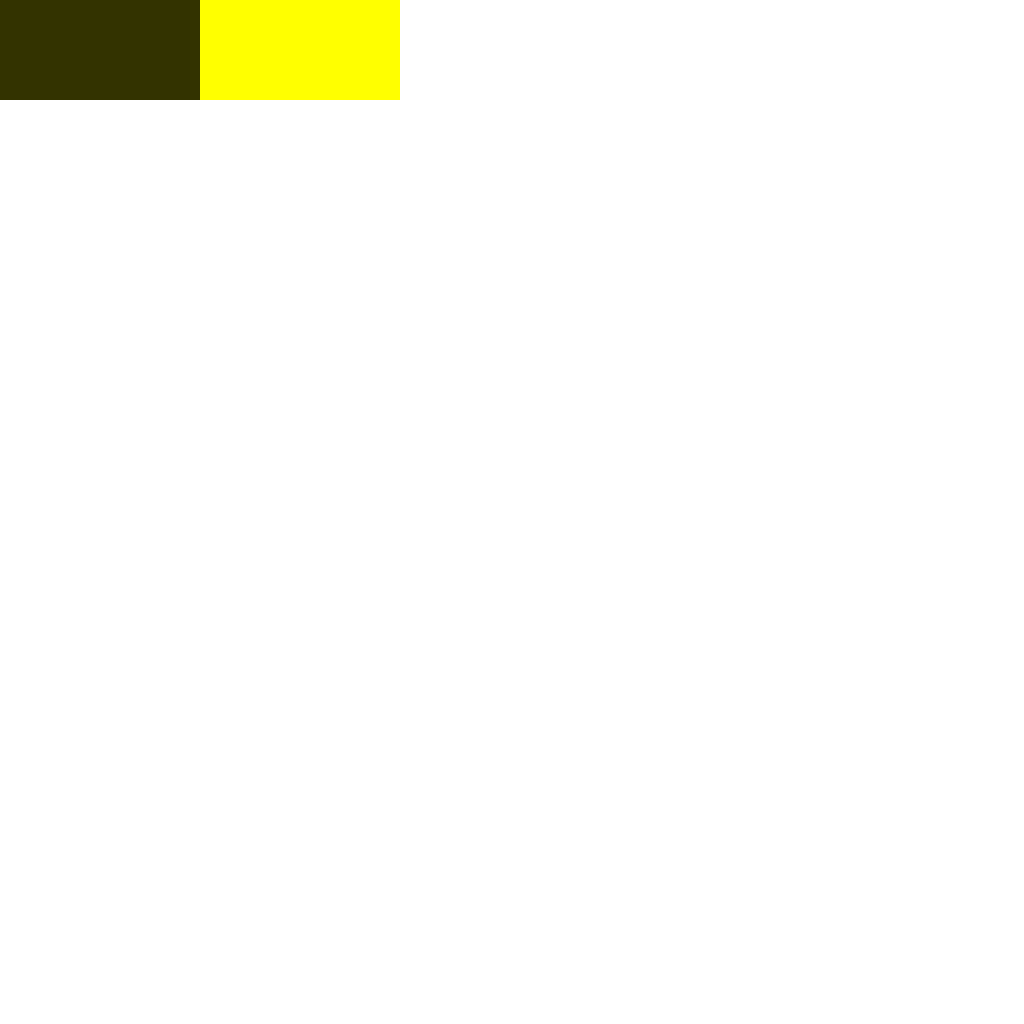
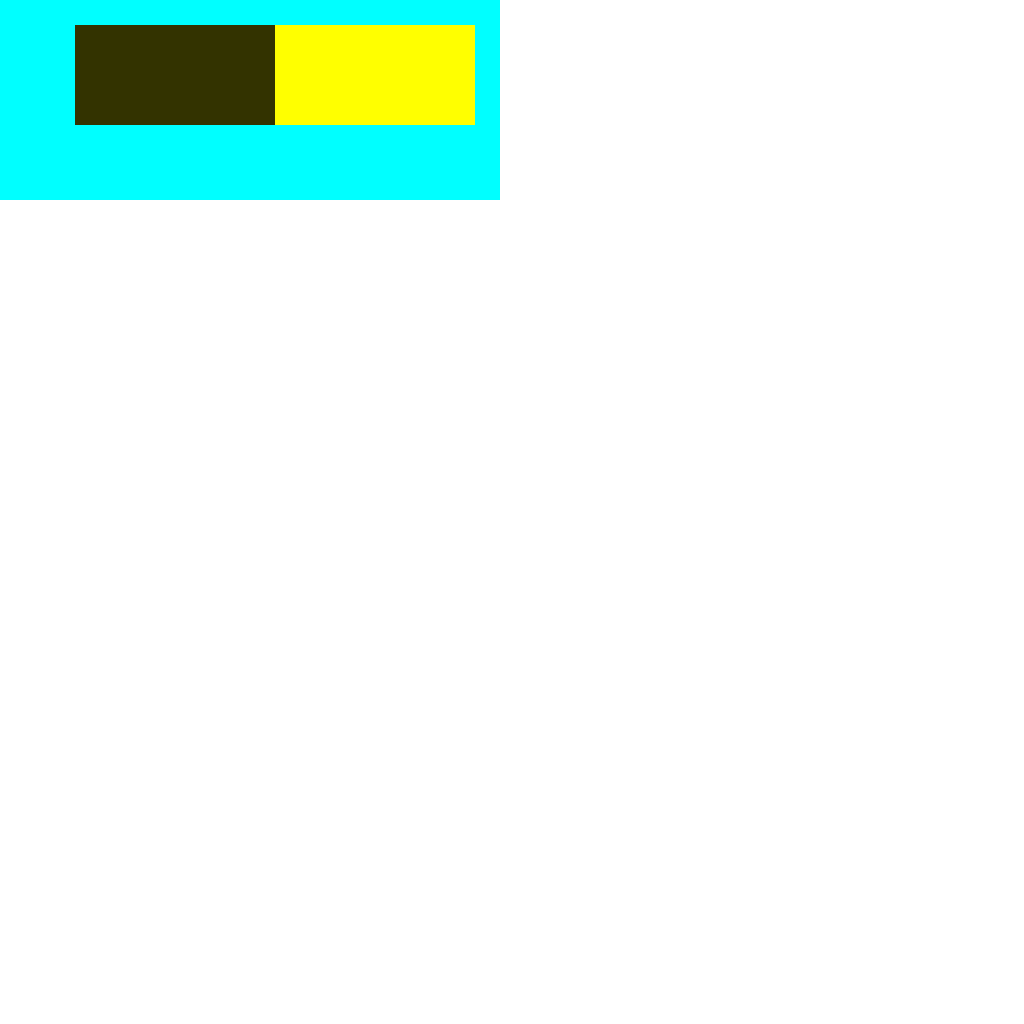
Finessing some margin calculations

Changed region(s): [[0.0, 0.0, 0.5, 0.2188]]

diff --git a/src/SoftTouch.UI.Flexbox/Tree.cs b/src/SoftTouch.UI.Flexbox/Tree.cs
@@ -119,7 +119,7 @@ public sealed class FlexTree
                         {
                             
                             if (cbv.FlexDirection == FlexDirection.Row && cbv.Position == ViewPosition.Relative)
-                                e.Value.Width = (e.Value.Width ?? 0) + (cbv.Width ?? 0) + ((cbv.MarginLeft ?? 0)) + ((cbv.MarginRight ?? 0));
+                                e.Value.Width = (e.Value.Width ?? 0) + (cbv.Width ?? 0) + (cbv.MarginLeft ?? 0) + (cbv.MarginRight ?? 0);
 
                             if (cbv.FlexDirection == FlexDirection.Column && cbv.Position == ViewPosition.Relative)
                                 e.Value.Width =
@@ -155,10 +155,12 @@ public sealed class FlexTree
                                 e.Value.Height = (e.Value.Height ?? 0) + (cbv.Height ?? 0) + (cbv.Top ?? 0) + (cbv.Bottom ?? 0);
 
                             if (cbv.FlexDirection == FlexDirection.Row && cbv.Position == ViewPosition.Relative)
-                                e.Value.Height = ViewNumber.MaxMagnitude(
-                                    e.Value.Height ?? 0,
-                                    (cbv.Height ?? 0) + (cbv.Top ?? 0) + (cbv.Bottom ?? 0)
-                                );
+                                e.Value.Height =
+                                    (e.Value.Height ?? 0)
+                                    + ViewNumber.MaxMagnitude(
+                                        e.Value.Height ?? 0,
+                                        (cbv.Height ?? 0) + (cbv.Top ?? 0) + (cbv.Bottom ?? 0)
+                                    );
                         }
                         if (cbv.Position == ViewPosition.Relative)
                             childrenCount += 1;
@@ -374,13 +376,13 @@ public sealed class FlexTree
                                 && ebv.JustifyContent != JustifyContent.SpaceAround
                                 && ebv.JustifyContent != JustifyContent.SpaceEvenly
                             )
-                                cbv.Height = (cbv.Flex / totalFlex) * availableHeight;
+                                cbv.Height = cbv.Flex / totalFlex * availableHeight;
                         }
                     }
                 }
 
-                ebv.X += (ebv.MarginLeft ?? 0);
-                ebv.Y += (ebv.MarginTop ?? 0);
+                ebv.X += ebv.MarginLeft ?? 0;
+                ebv.Y += ebv.MarginTop ?? 0;
 
                 // Determine positions.
                 var x = ebv.X + (ebv.PaddingLeft ?? 0);

diff --git a/src/SoftTouch.UI.Example/Program.cs b/src/SoftTouch.UI.Example/Program.cs
@@ -10,7 +10,7 @@ var view = new BoxView(
         flex : 1,
         flexDirection : FlexDirection.Row,
         position: ViewPosition.Relative,
-        padding: 10
+        justifyContent : JustifyContent.Center
     ),
     [
         new BoxElement(
@@ -18,13 +18,15 @@ var view = new BoxView(
             backgroundColor : "#330",
             width : 200,
             height : 100,
-            alignSelf : FlexAlignment.Stretch
+            alignSelf : FlexAlignment.Stretch,
+            margin: 25
         ),
         new BoxElement(
             id : "child1",
             backgroundColor : "#FF0",
             width : 200,
-            height : 100
+            height : 100,
+            margin: 25
         )
     ]
 );

diff --git a/src/SoftTouch.UI.Flexbox/BoxElement.cs b/src/SoftTouch.UI.Flexbox/BoxElement.cs
@@ -137,6 +137,8 @@ public class BoxElement : FlexElement
         MarginRight = marginRight;
         MarginTop = marginTop;
         MarginBottom = marginBottom;
+        Margin = margin;
+        Padding = padding;
     }
     public override string ToString()
     {
